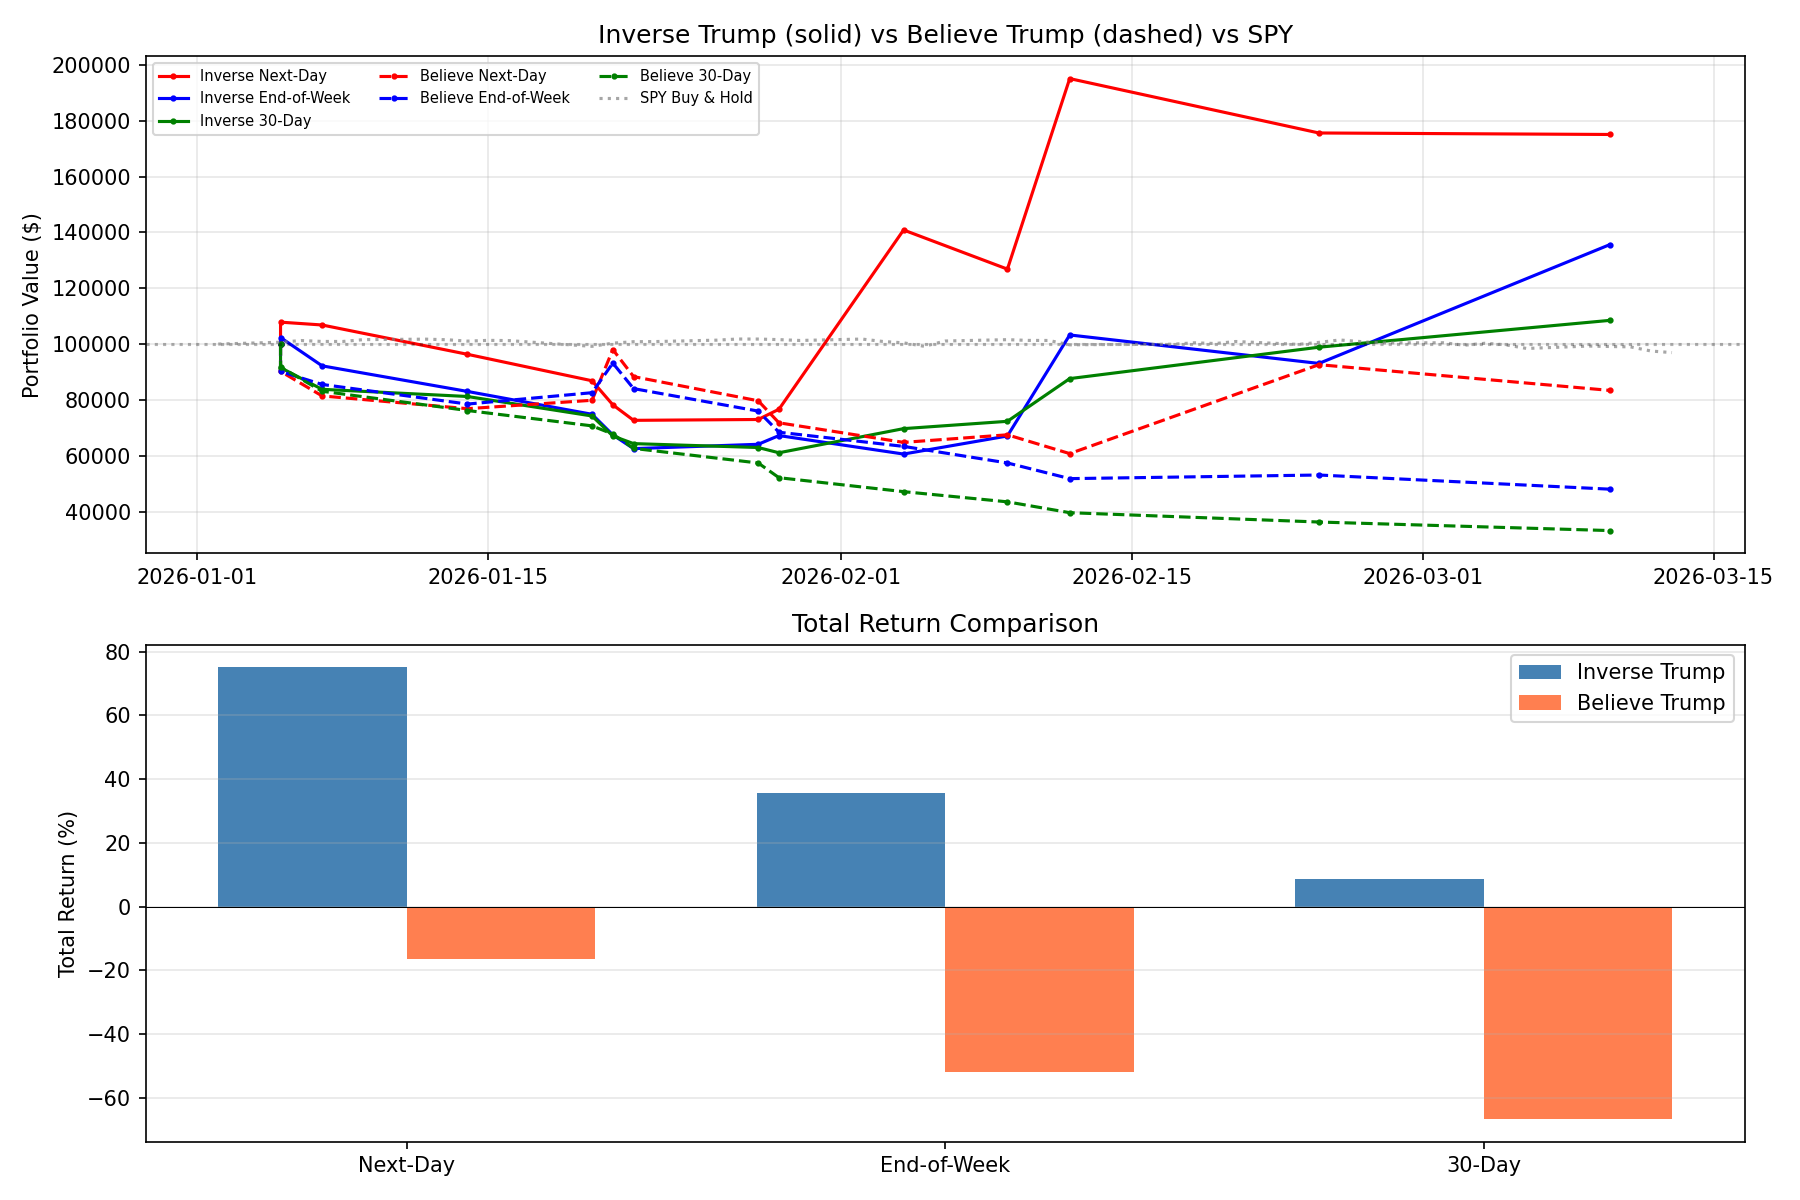
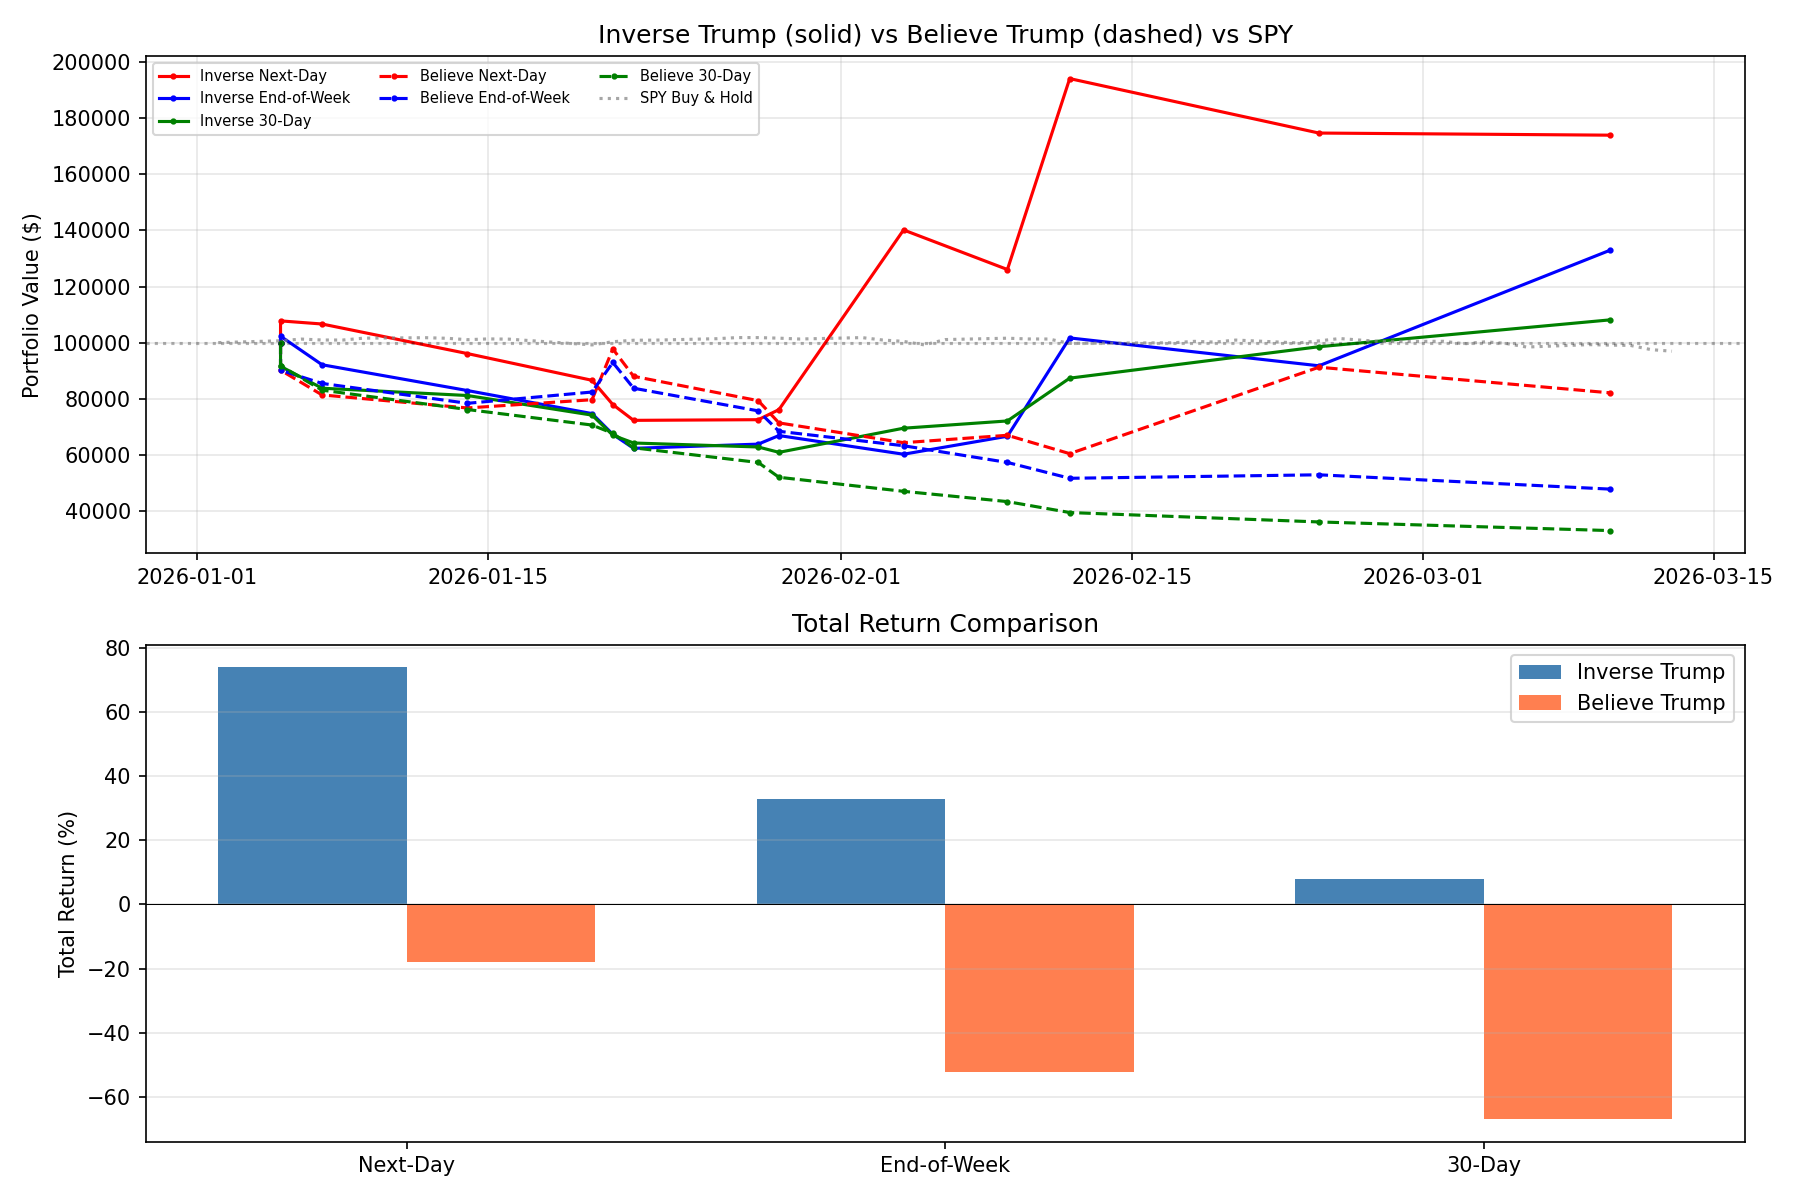
add Questrade commission modeling to backtester

diff --git a/src/backtester.py b/src/backtester.py
@@ -5,8 +5,27 @@ from datetime import timedelta
 import pandas as pd
 import yfinance as yf
 
-from src.config import RISK_FREE_RATE, SPY_TICKER
+from src.config import (
+    COMMISSION_BASE, COMMISSION_MIN, COMMISSION_PER_CONTRACT,
+    RISK_FREE_RATE, SPY_TICKER,
+)
 from src.options_pricer import black_scholes_price, calculate_option_pnl
+
+
+def calculate_commission(num_contracts: int) -> float:
+    """Calculate Questrade options commission for a single order."""
+    if num_contracts <= 0:
+        return 0
+    return max(COMMISSION_MIN, COMMISSION_BASE + num_contracts * COMMISSION_PER_CONTRACT)
+
+
+def option_type_is_itm(option_type: str, strike: float, expiry_price: float | None) -> bool:
+    """Check if option expires in the money (needs closing trade)."""
+    if expiry_price is None:
+        return False
+    if option_type == "call":
+        return expiry_price > strike
+    return expiry_price < strike
 
 
 def get_prices(ticker_symbol: str = SPY_TICKER, start: str = "2026-01-01", end: str = "2026-12-31") -> pd.DataFrame:
@@ -138,13 +157,24 @@ def run_backtest(
                     num_contracts=num_contracts,
                 )
 
-            portfolios[window_name] += pnl
+            # Commissions: pay on open, pay on close (unless expires worthless)
+            open_commission = calculate_commission(num_contracts)
+            if option_type_is_itm(signal, strike, expiry_price):
+                close_commission = calculate_commission(num_contracts)
+            else:
+                close_commission = 0  # expires worthless, no closing trade
+            total_commission = open_commission + close_commission
+
+            net_pnl = pnl - total_commission
+            portfolios[window_name] += net_pnl
 
             trade_row[f"option_price_{window_name}"] = option_price
             trade_row[f"num_contracts_{window_name}"] = num_contracts
             trade_row[f"dte_{window_name}"] = dte
             trade_row[f"expiry_price_{window_name}"] = expiry_price
-            trade_row[f"pnl_{window_name}"] = pnl
+            trade_row[f"pnl_gross_{window_name}"] = pnl
+            trade_row[f"commission_{window_name}"] = total_commission
+            trade_row[f"pnl_{window_name}"] = net_pnl
             trade_row[f"portfolio_{window_name}"] = portfolios[window_name]
 
         trades.append(trade_row)

diff --git a/analysis.py b/analysis.py
@@ -86,14 +86,19 @@ def print_summary(trades: pd.DataFrame, label: str = "INVERSE TRUMP"):
         drawdown = (portfolio_series - peak) / peak * 100
         max_dd = drawdown.min()
 
-        label = window.replace("_", " ").title()
-        print(f"--- {label} Expiry ---")
+        # Commissions
+        comm_col = f"commission_{window}"
+        total_commissions = trades[comm_col].sum() if comm_col in trades.columns else 0
+
+        window_label = window.replace("_", " ").title()
+        print(f"--- {window_label} Expiry ---")
         print(f"  Final portfolio: ${final_portfolio:,.0f}")
         print(f"  Total return:    {total_return:+.1f}%")
         print(f"  Win rate:        {win_rate:.0f}% ({wins}W / {losses}L / {flat}F)")
         print(f"  Max drawdown:    {max_dd:.1f}%")
         print(f"  Best trade:      ${trades[pnl_col].max():,.0f}")
         print(f"  Worst trade:     ${trades[pnl_col].min():,.0f}")
+        print(f"  Total commissions: ${total_commissions:,.0f}")
         print()
 
 

diff --git a/src/config.py b/src/config.py
@@ -57,3 +57,8 @@ CLAIM_CATEGORIES = {
 
 SPY_TICKER = "SPY"
 RISK_FREE_RATE = 0.05  # approximate 2026 rate
+
+# Questrade commission structure
+COMMISSION_BASE = 9.95  # flat fee per trade
+COMMISSION_PER_CONTRACT = 1.00  # per contract
+COMMISSION_MIN = 9.95  # minimum per trade
